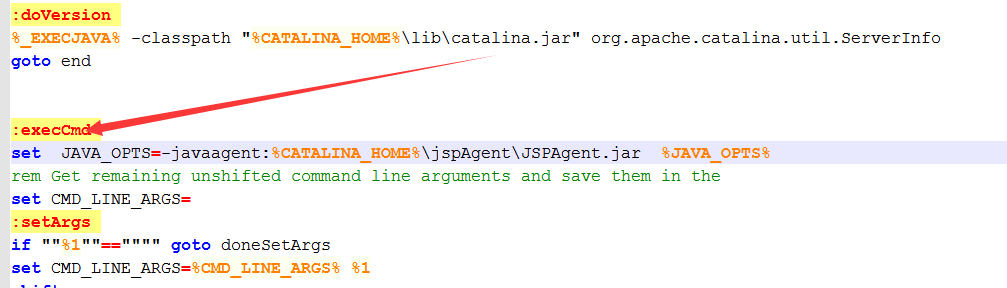
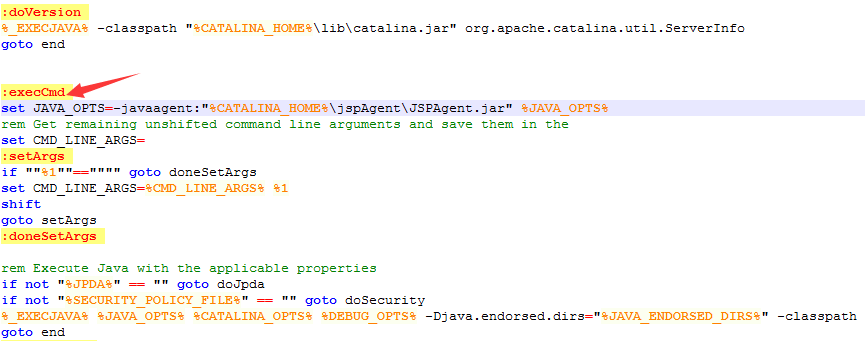
Updates assets/TomcatW03.png
Auto commit by GitBook Editor

Changed region(s): [[0.0, 0.0, 0.9988, 1.0], [0.4058, 0.2188, 0.437, 0.25]]

diff --git a/guide/rasp/Tomcat.md b/guide/rasp/Tomcat.md
@@ -62,7 +62,7 @@
 
 观察tomcat的启动脚本，如果最终调用了`%CATALINA_HOME%/bin/catalina.bat`，那么可以在这个文件中修改，定位到：`execCmd`，在其下追加一行：
 
-`set JAVA_OPTS=-javaagent:%CATALINA_HOME%\jspAgent\JSPAgent.jar  %JAVA_OPTS%`
+`set JAVA_OPTS=-javaagent:"%CATALINA_HOME%\jspAgent\JSPAgent.jar"  %JAVA_OPTS%`
 
 ![](/assets/TomcatW03.png)
 
